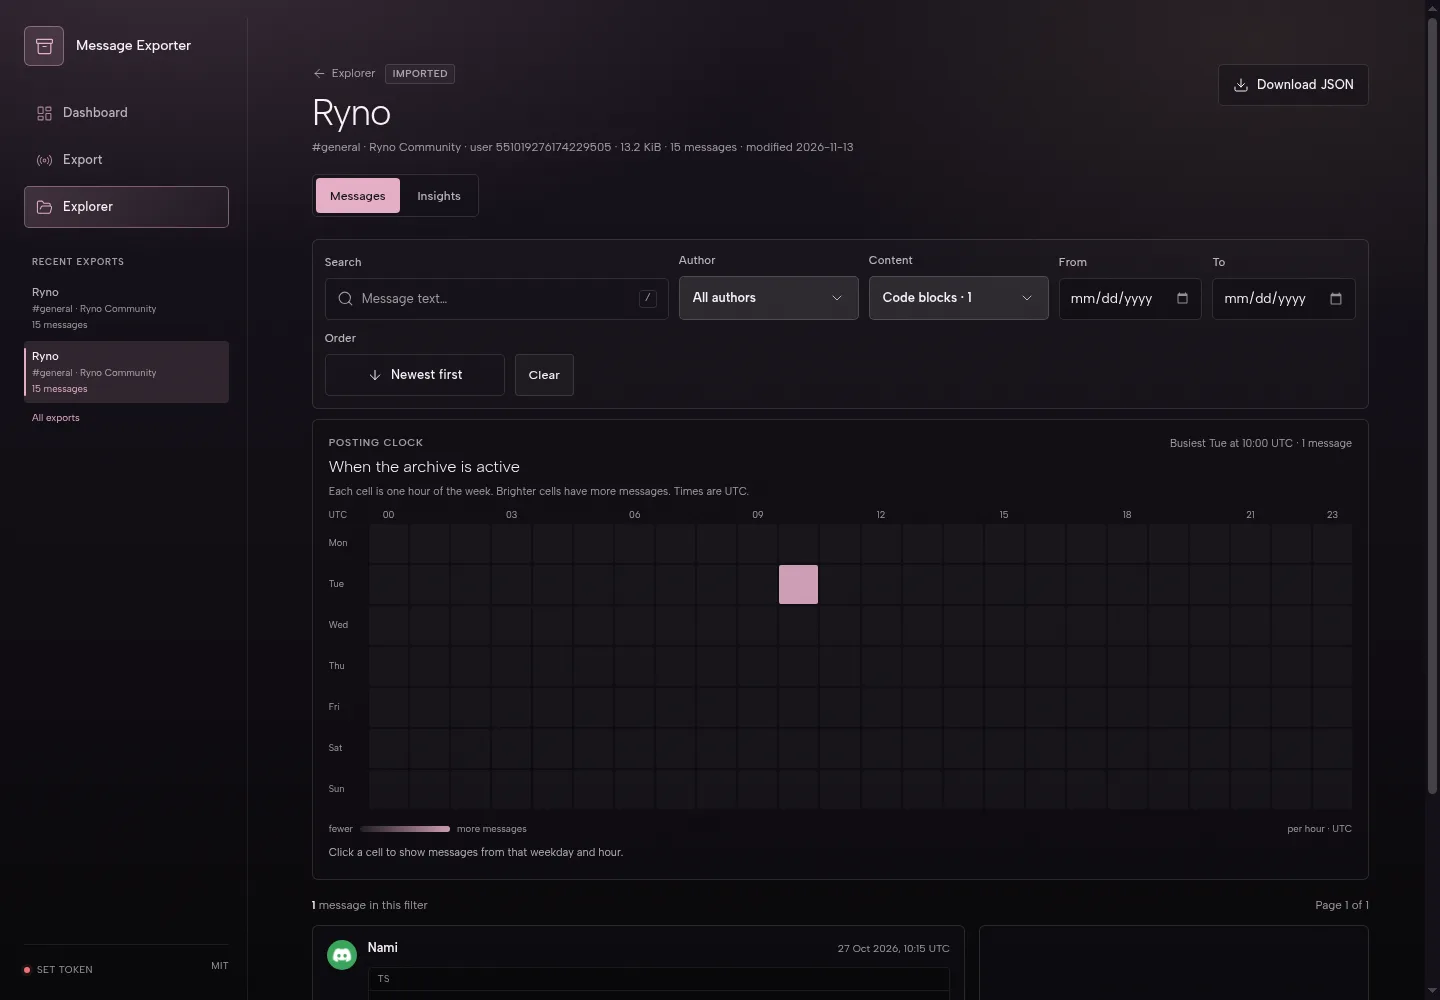
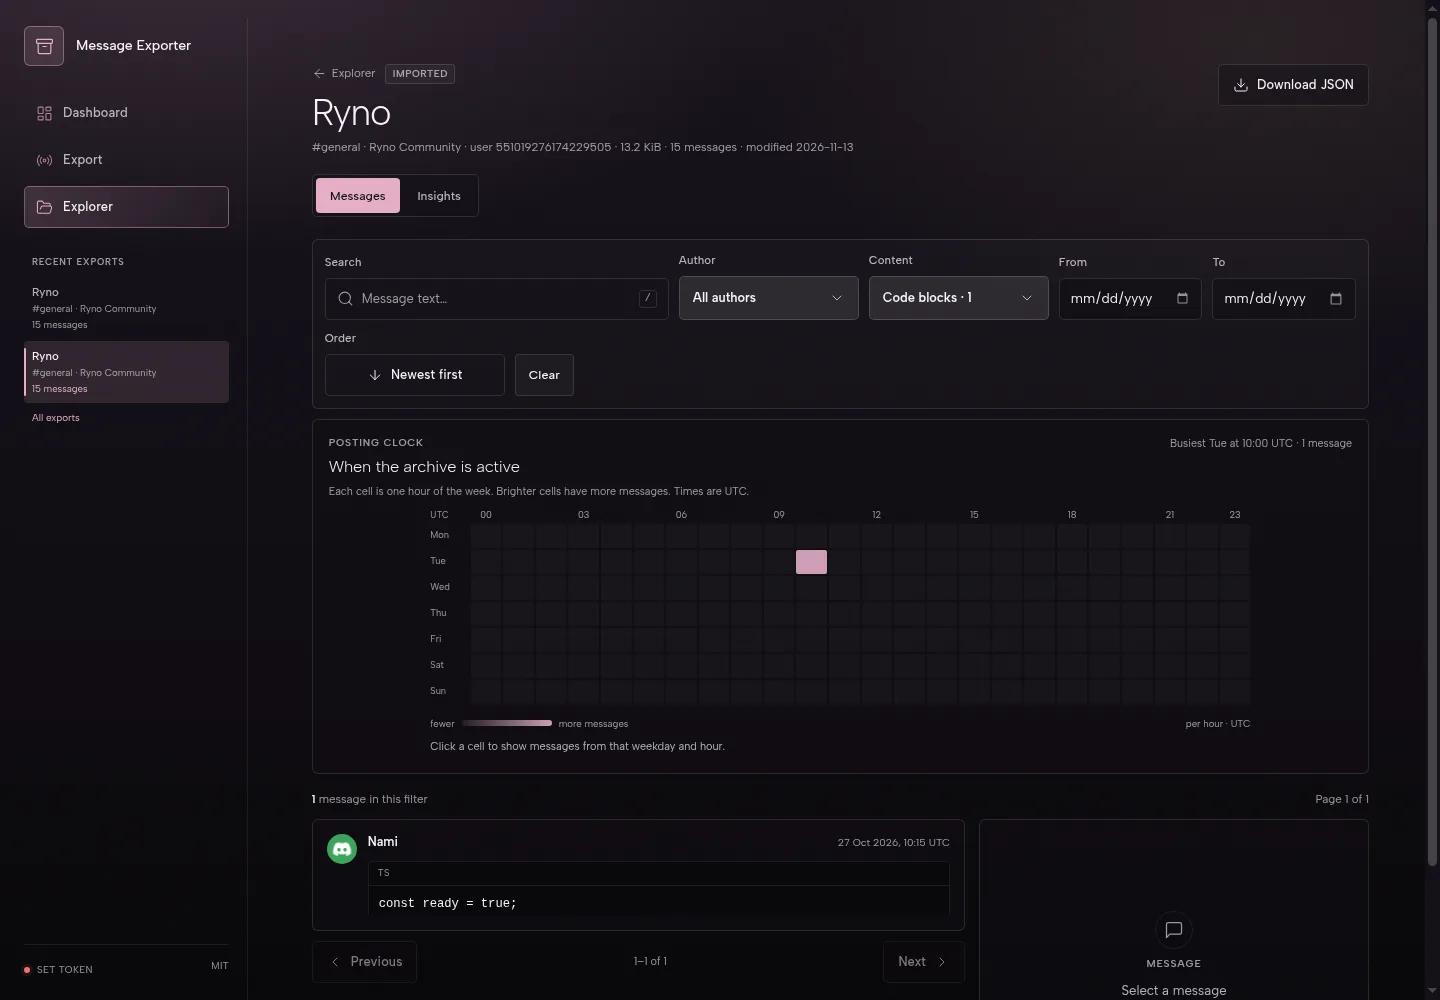
Show stickers in messages and compact the posting clock

diff --git a/web/exports.ts b/web/exports.ts
@@ -119,6 +119,7 @@ export interface MessageSummary {
   reaction_count: number;
   reactions: Array<{ emoji: string; emoji_id: string | null; count: number }>;
   embeds: MessageEmbedSummary[];
+  stickers: MessageStickerSummary[];
   mentions: MessageMentionSummary[];
   reply_to_id: string | null;
   edited: boolean;
@@ -140,6 +141,12 @@ export interface MessageEmbedSummary {
   thumbnail_url: string | null;
   image_url: string | null;
   video_url: string | null;
+}
+
+export interface MessageStickerSummary {
+  id: string;
+  name: string | null;
+  format_type: number | null;
 }
 
 export interface MessagePage {
@@ -1448,6 +1455,33 @@ function parseMentions(value: unknown): MessageMentionSummary[] {
   return mentions;
 }
 
+function parseStickers(value: unknown): MessageStickerSummary[] {
+  if (typeof value !== "string" || !value) return [];
+  let parsed: unknown;
+  try {
+    parsed = JSON.parse(value);
+  } catch {
+    return [];
+  }
+  if (!Array.isArray(parsed)) return [];
+  const stickers: MessageStickerSummary[] = [];
+  for (const entry of parsed.slice(0, 10)) {
+    if (!entry || typeof entry !== "object") continue;
+    const sticker = entry as Record<string, unknown>;
+    const id = typeof sticker.id === "string" ? sticker.id : null;
+    if (!id) continue;
+    stickers.push({
+      id,
+      name: embedText(sticker.name, 120),
+      format_type:
+        typeof sticker.format_type === "number"
+          ? sticker.format_type
+          : null,
+    });
+  }
+  return stickers;
+}
+
 export function queryMessages(
   id: string,
   filters: ExportFilters,
@@ -1474,6 +1508,7 @@ export function queryMessages(
                 length(m.content) AS content_length,
                 m.attachment_count, m.reaction_count, m.reply_to_id,
                 m.edited, json_extract(m.raw, '$.embeds') AS embeds_json,
+                json_extract(m.raw, '$.sticker_items') AS stickers_json,
                 json_extract(m.raw, '$.author.avatar_url') AS author_avatar_url,
                 json_extract(m.raw, '$.mentions') AS mentions_json
          FROM ${filter.from}${filter.where}
@@ -1524,6 +1559,7 @@ export function queryMessages(
         reaction_count: asNumber(row.reaction_count),
         reactions: reactionsByMessage.get(sqlValue(row.id)) ?? [],
         embeds: parseEmbedSummary(row.embeds_json),
+        stickers: parseStickers(row.stickers_json),
         mentions: parseMentions(row.mentions_json),
         reply_to_id: sqlValue(row.reply_to_id) || null,
         edited: Boolean(row.edited),

diff --git a/web/src/styles/explorer.css b/web/src/styles/explorer.css
@@ -1048,6 +1048,62 @@ a.message-embed-title:hover {
   -webkit-line-clamp: 3;
 }
 
+.message-stickers {
+  display: flex;
+  flex-wrap: wrap;
+  gap: 8px;
+  margin-top: 8px;
+}
+
+.message-sticker {
+  display: flex;
+  flex-direction: column;
+  gap: 3px;
+  min-width: 0;
+  margin: 0;
+}
+
+.message-sticker-img,
+.message-sticker-fallback {
+  display: grid;
+  place-items: center;
+  width: 64px;
+  height: 64px;
+  padding: 5px;
+  border: 1px solid var(--hairline);
+  border-radius: var(--radius-inner);
+  background: rgba(255, 255, 255, .025);
+  object-fit: contain;
+}
+
+.message-sticker-fallback {
+  color: var(--primary);
+}
+
+.message-sticker figcaption {
+  max-width: 64px;
+  overflow: hidden;
+  color: var(--faint);
+  font-size: .6rem;
+  line-height: 1.3;
+  text-overflow: ellipsis;
+  white-space: nowrap;
+}
+
+.message-detail-block .message-stickers {
+  margin-top: 0;
+}
+
+.message-detail-block .message-sticker-img,
+.message-detail-block .message-sticker-fallback {
+  width: 96px;
+  height: 96px;
+}
+
+.message-detail-block .message-sticker figcaption {
+  max-width: 96px;
+}
+
 @media (max-width: 600px) {
   .message-embed {
     grid-template-columns: 84px minmax(0, 1fr);
@@ -1520,9 +1576,12 @@ a.message-embed-title:hover {
 
 .clock-grid {
   display: grid;
-  grid-template-columns: 2.4rem repeat(24, minmax(20px, 1fr));
+  grid-template-columns: 2.4rem repeat(24, minmax(24px, 1fr));
   gap: 2px;
-  min-width: 680px;
+  width: 100%;
+  min-width: 660px;
+  max-width: 820px;
+  margin-inline: auto;
 }
 
 .clock-row {
@@ -1552,8 +1611,8 @@ a.message-embed-title:hover {
 }
 
 .clock-cell {
-  aspect-ratio: 1;
-  min-height: 11px;
+  height: 24px;
+  min-height: 0;
   padding: 0;
   border: 0;
   border-radius: 2px;
@@ -1586,7 +1645,8 @@ a.message-embed-title:hover {
   align-items: center;
   flex-wrap: wrap;
   gap: 7px;
-  margin-top: 10px;
+  max-width: 820px;
+  margin: 10px auto 0;
   color: var(--faint);
   font-size: .6rem;
 }
@@ -1608,7 +1668,8 @@ a.message-embed-title:hover {
 
 .clock-readout {
   min-height: 18px;
-  margin: 8px 0 0;
+  max-width: 820px;
+  margin: 8px auto 0;
   color: var(--muted);
   font-size: .68rem;
   line-height: 1.45;

diff --git a/web/src/pages/MessagesPage.tsx b/web/src/pages/MessagesPage.tsx
@@ -21,6 +21,7 @@ import AttachmentGrid from "../components/AttachmentGrid";
 import Avatar from "../components/Avatar";
 import ExportHeader from "../components/ExportHeader";
 import MessageEmbeds from "../components/MessageEmbeds";
+import MessageStickers from "../components/MessageStickers";
 import PostingClock, { type ClockSelection } from "../charts/PostingClock";
 import MessageMarkdown from "../components/MessageMarkdown";
 import SelectMenu from "../components/SelectMenu";
@@ -76,6 +77,11 @@ interface RawMessage {
     avatar_url?: string | null;
   }>;
   attachments?: RawAttachment[];
+  sticker_items?: Array<{
+    id?: string;
+    name?: string | null;
+    format_type?: number | null;
+  }>;
   embeds?: Array<{
     title?: string;
     description?: string;
@@ -728,11 +734,15 @@ export default function MessagesPage({
                         mentions={message.mentions}
                         className="message-content"
                       />
-                    ) : (
+                    ) : message.stickers?.length ||
+                      message.embeds?.length ? null : (
                       <span className="message-content message-empty">
                         no text content
                       </span>
                     )}
+                    {message.stickers?.length ? (
+                      <MessageStickers stickers={message.stickers} />
+                    ) : null}
                     {message.embeds?.length ? (
                       <MessageEmbeds embeds={message.embeds} />
                     ) : null}
@@ -890,6 +900,13 @@ export default function MessagesPage({
                     no text content
                   </p>
                 )}
+
+                {selected.sticker_items?.length ? (
+                  <div className="message-detail-block">
+                    <h3>Stickers</h3>
+                    <MessageStickers stickers={selected.sticker_items} />
+                  </div>
+                ) : null}
 
                 {selected.mentions?.length ? (
                   <div className="message-detail-block">

diff --git a/web/src/components/MessageStickers.tsx b/web/src/components/MessageStickers.tsx
@@ -1,0 +1,65 @@
+import { useState } from "react";
+import { Sticker } from "lucide-react";
+
+export interface StickerLike {
+  id?: string;
+  name?: string | null;
+  format_type?: number | null;
+}
+
+interface MessageStickersProps {
+  stickers: StickerLike[];
+  className?: string;
+}
+
+function stickerUrl(sticker: StickerLike): string | null {
+  if (!sticker.id) return null;
+  if (sticker.format_type === 3) return null;
+  const extension = sticker.format_type === 4 ? "gif" : "png";
+  return `https://cdn.discordapp.com/stickers/${sticker.id}.${extension}?size=160`;
+}
+
+function StickerImage({ sticker }: { sticker: StickerLike }) {
+  const [failed, setFailed] = useState(false);
+  const url = stickerUrl(sticker);
+  const name = sticker.name?.trim() || "Sticker";
+  if (!url || failed) {
+    return (
+      <span className="message-sticker-fallback" aria-hidden="true">
+        <Sticker size={24} strokeWidth={1.5} />
+      </span>
+    );
+  }
+  return (
+    <img
+      className="message-sticker-img"
+      src={url}
+      alt={`${name} sticker`}
+      width={96}
+      height={96}
+      loading="lazy"
+      referrerPolicy="no-referrer"
+      onError={() => setFailed(true)}
+    />
+  );
+}
+
+export default function MessageStickers({
+  stickers,
+  className = "",
+}: MessageStickersProps) {
+  if (!stickers.length) return null;
+  return (
+    <div className={`message-stickers${className ? ` ${className}` : ""}`}>
+      {stickers.map((sticker, index) => (
+        <figure
+          className="message-sticker"
+          key={sticker.id || `sticker-${index}`}
+        >
+          <StickerImage sticker={sticker} />
+          <figcaption>{sticker.name?.trim() || "Sticker"}</figcaption>
+        </figure>
+      ))}
+    </div>
+  );
+}

diff --git a/web/tests/exports.test.ts b/web/tests/exports.test.ts
@@ -98,7 +98,7 @@ const SAMPLE = {
       message_reference: null,
       referenced_message: null,
       embeds: [],
-      sticker_items: [],
+      sticker_items: [{ id: "s1", name: "Wave", format_type: 1 }],
       thread: null,
     },
     {
@@ -351,6 +351,18 @@ describe("export library", () => {
     assert.equal(links?.total, 1);
     assert.equal(links?.messages[0].id, "1001");
 
+    const stickers = queryMessages(
+      "job-testjob",
+      { content: "stickers" },
+      0,
+      100,
+      "desc"
+    );
+    assert.equal(stickers?.total, 1);
+    assert.equal(stickers?.messages[0].id, "1002");
+    assert.equal(stickers?.messages[0].stickers[0]?.name, "Wave");
+    assert.equal(stickers?.messages[0].stickers[0]?.format_type, 1);
+
     const detail = queryMessage("job-testjob", "1002");
     assert.ok(detail);
     assert.equal(detail.id, "1002");
@@ -376,7 +388,7 @@ describe("export library", () => {
         files: 0,
         code: 1,
         links: 1,
-        stickers: 0,
+        stickers: 1,
       }
     );
 

diff --git a/web/src/types.ts b/web/src/types.ts
@@ -468,6 +468,12 @@ export interface ExplorerEmbed {
   video_url: string | null;
 }
 
+export interface ExplorerSticker {
+  id: string;
+  name: string | null;
+  format_type: number | null;
+}
+
 export interface ExplorerMention {
   id: string;
   name: string | null;
@@ -494,6 +500,7 @@ export interface ExplorerMessage {
     count: number;
   }>;
   embeds: ExplorerEmbed[];
+  stickers: ExplorerSticker[];
   mentions: ExplorerMention[];
   reply_to_id: string | null;
   edited: boolean;

diff --git a/README.md b/README.md
@@ -14,7 +14,7 @@ Windows · Linux · Your archive stays on your machine
 
 - 🗂 **Three ways to export** — one author, one channel, or every text channel in a server.
 - 🔎 **A real search engine** — full-text search plus filters for author, channel, date, and content type.
-- 🖼 **Messages that look like messages** — markdown, custom emoji, reactions, replies, mentions, link previews, and attachments.
+- 🖼 **Messages that look like messages** — markdown, custom emoji, reactions, replies, mentions, link previews, stickers, and attachments.
 - 📊 **Insights worth opening** — activity over time, a weekday-by-hour posting clock, top authors, reactions, words, links, and more.
 - 🎨 **A console you can make yours** — nine color schemes, brightness controls, and a custom background.
 - 🔒 **Local by default** — your exports, index, and settings live on your computer.
